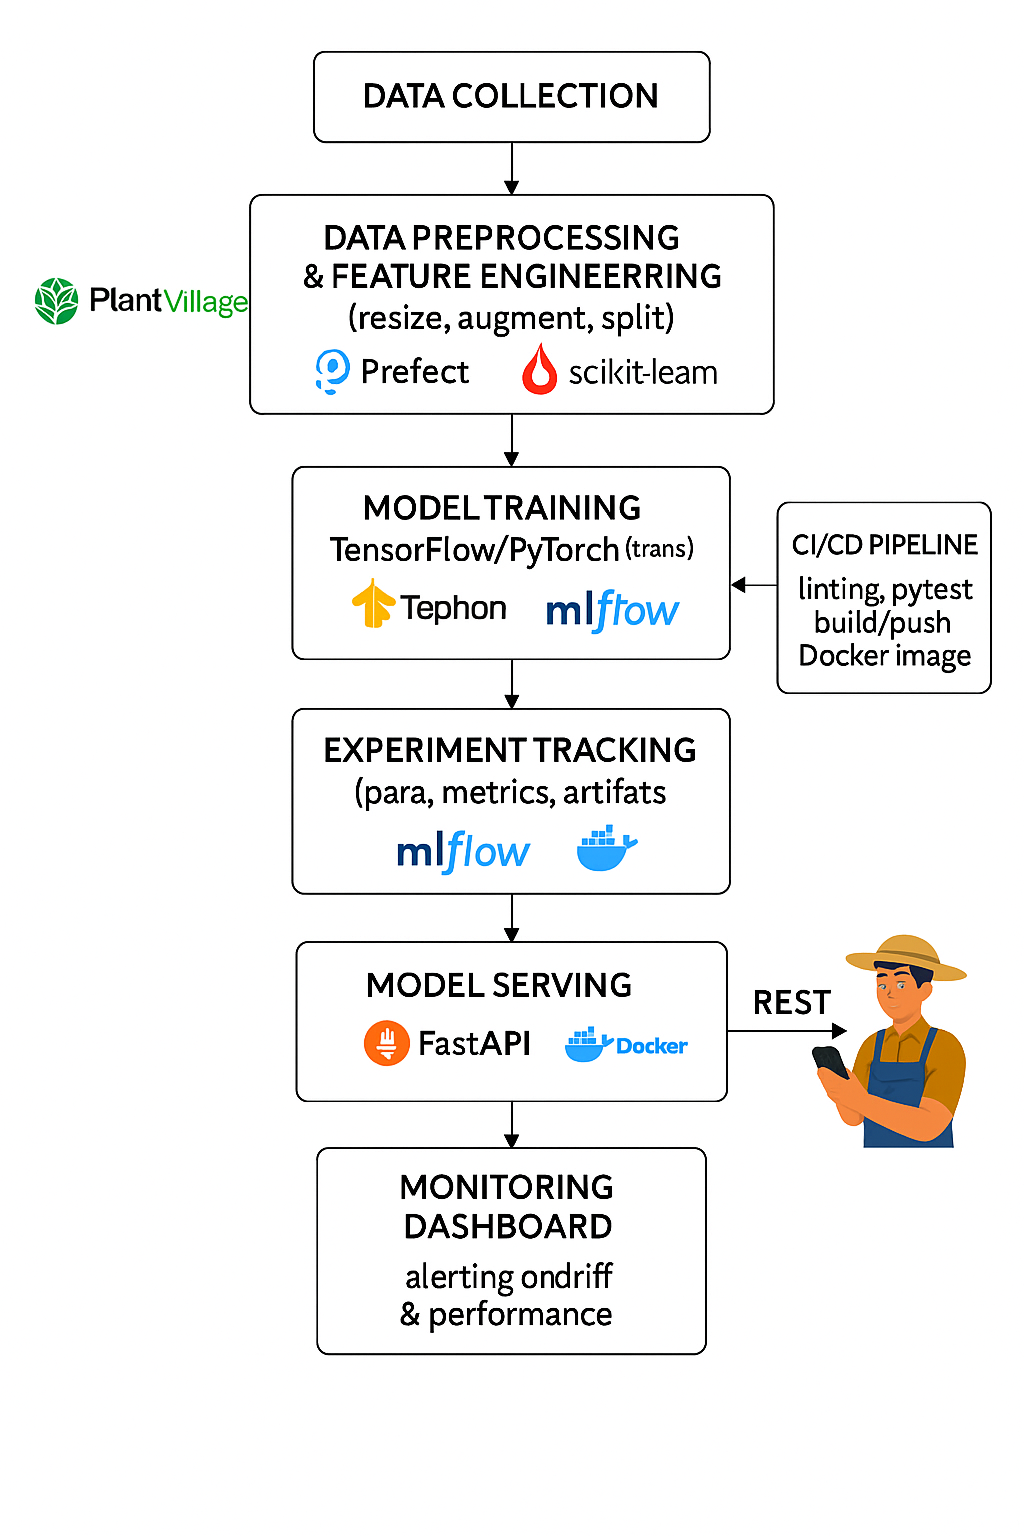
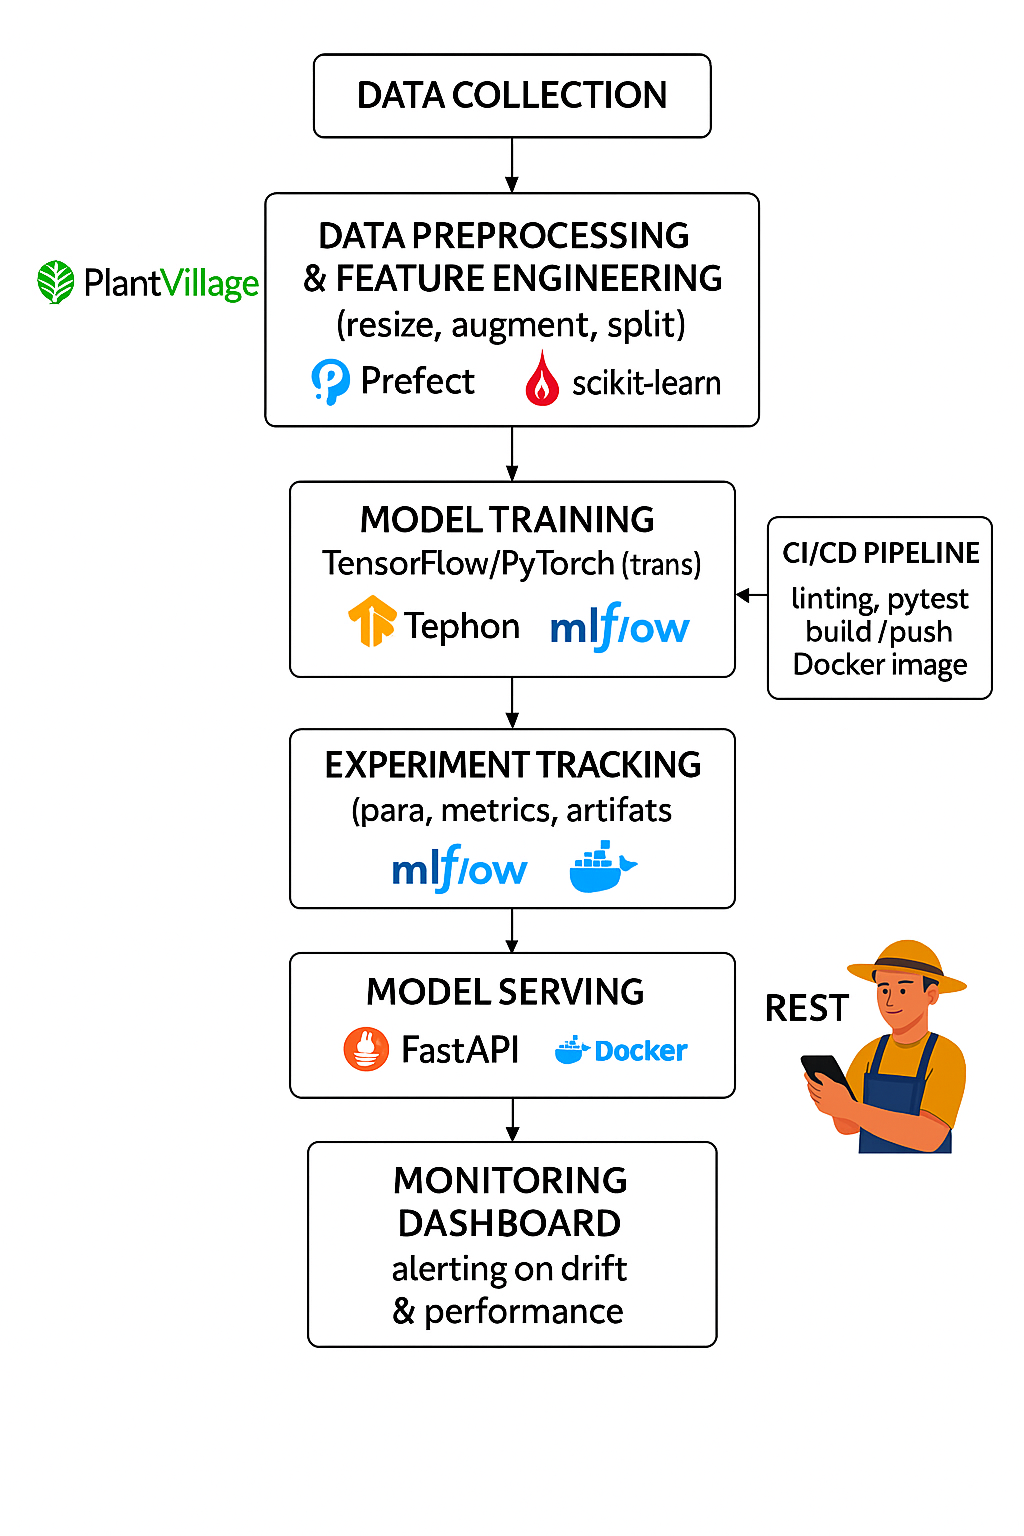
planning and setup phase complete, moving to data pipeline with prefect

diff --git a/README.md b/README.md
@@ -1,25 +1,32 @@
-# plant-disease-mlops
-MLOps Zoomcamp final project: Plant disease classification: build an ML service to classify plant leaf images into disease categories (healthy vs various infections). The project starts from a standard dataset (PlantVillage) to grow it into a full MLOps pipeline with orchestration, deployment, testing, and monitoring. The project uses CNNs with MLflow, Prefect, Docker, and monitoring tools. It's folder structure is below:
+# 🌿 Plant Disease Classifier (MLOps Zoomcamp Final Project)
 
-```text
-plant-disease-mlops/
-├── data/
-├── notebooks/
-├── src/
-│   ├── data/
-│   ├── training/
-│   ├── inference/
-│   └── monitoring/
-├── Dockerfile
-├── prefect-flow.py
-├── requirements.txt
-└── README.md
+This project builds an ML service to classify plant leaf images into disease categories (e.g. healthy vs. infected). Starting with the standard PlantVillage dataset, the project evolves into a full MLOps pipeline with orchestration, training, deployment, monitoring, and CI/CD automation. Its folder structure is below:
+
+
 ```
-
+plant-disease-classifier/
+├── data/                        # Raw and processed datasets
+├── notebooks/                   # Jupyter notebooks for EDA & dev
+├── src/                         # All source code
+│   ├── preprocessing/           # Image loaders, augmentation, resizers
+│   ├── training/                # Model training code
+│   ├── inference/               # FastAPI & prediction utils
+│   └── monitoring/              # Drift detection, logging
+├── flows/
+│   └── prefect_flow.py          # Main Prefect pipeline definition
+├── models/                      # Saved models (optional if MLflow used)
+├── tests/                       # Pytest files for unit/integration testing
+├── Dockerfile                   # App Docker build instructions
+├── docker-compose.yaml          # Service orchestration: app, MLflow, monitoring
+├── requirements.txt             # Python dependencies
+├── mlruns/                      # Local MLflow tracking artifacts
+├── README.md                    # Project overview and instructions
+└── .gitignore                   # Files and folders to ignore in version control
+```
 
 ### 🛠 Project Tool Breakdown
 
-| *Module*              | *Zoomcamp Tools*                   | *Description*                                                                   |
+| **Module**            | **Zoomcamp Tools**                 | **Description**                                                                |
 |-----------------------|------------------------------------|---------------------------------------------------------------------------------|
 | Data/Training Pipeline| Prefect, Docker, MLflow            | Automate data ingestion, augmentation, training with MLflow tracking & registry |
 | CI/CD                 | GitHub Actions                     | Run linting, tests, and trigger flows automatically                             |
@@ -31,7 +38,10 @@ plant-disease-mlops/
 
 
 
-The architecture diagram below gives a quick overview of the project's scope and design:
+### 🧭 Project Architecture
+
+The architecture diagram below illustrates the full MLOps workflow, from data ingestion and training to deployment, serving, and monitoring. A mobile app integration may be explored in future iterations.
+
 
 
 <img src="images/MLOps-Plant-Disease-Classifier.png" alt="Architecture Diagram" width="800"/>
